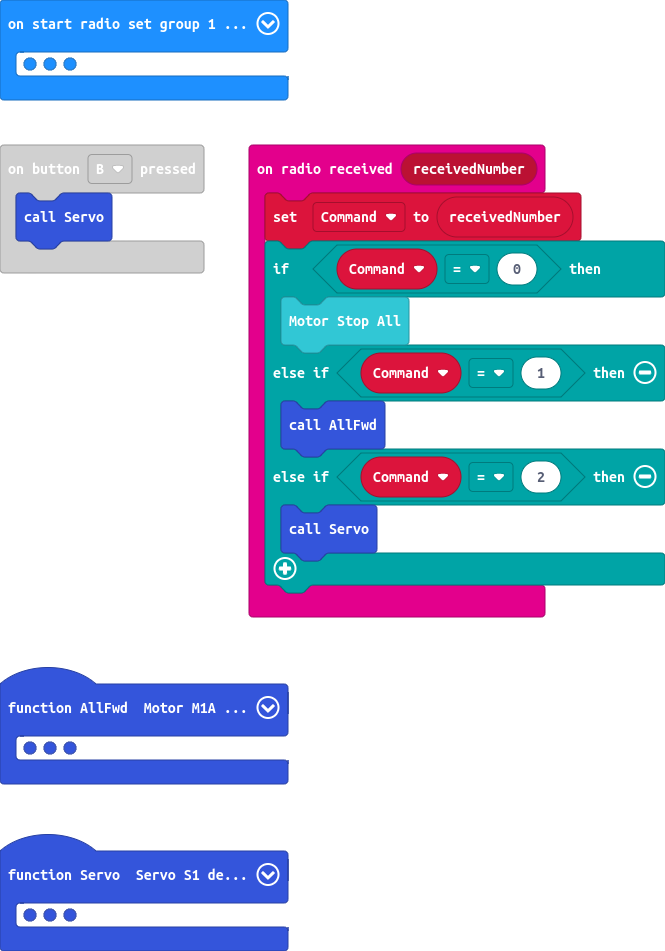
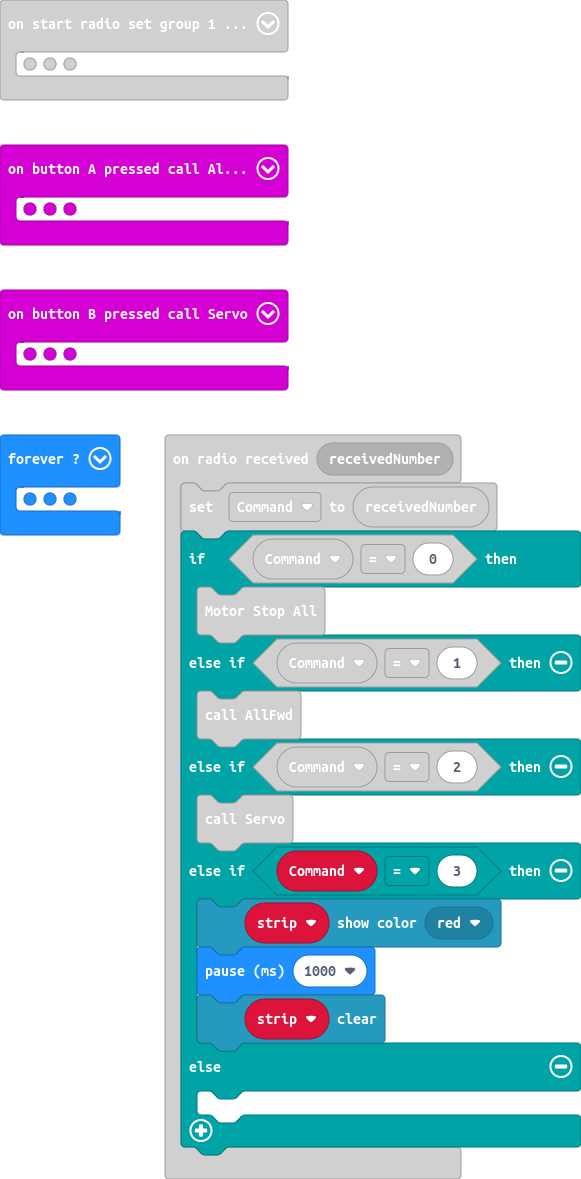
basic works added neo as option3

diff --git a/main.ts b/main.ts
@@ -6,13 +6,16 @@ radio.onReceivedNumber(function (receivedNumber) {
         AllFwd()
     } else if (Command == 2) {
         Servo()
+    } else if (Command == 3) {
+        strip.showColor(neopixel.colors(NeoPixelColors.Red))
+        basic.pause(1000)
+        strip.clear()
+    } else {
+    	
     }
 })
 input.onButtonPressed(Button.A, function () {
     AllFwd()
-})
-input.onButtonPressed(Button.B, function () {
-    Servo()
 })
 function AllFwd () {
     robotbit.MotorRun(robotbit.Motors.M1A, 100)
@@ -27,11 +30,15 @@ function Servo () {
     basic.pause(2000)
     robotbit.Servo(robotbit.Servos.S1, 0)
 }
+input.onButtonPressed(Button.B, function () {
+    Servo()
+})
+let strip: neopixel.Strip = null
 let Command = 0
 radio.setGroup(1)
 Command = 0
-basic.showIcon(IconNames.Yes)
-let strip = neopixel.create(DigitalPin.P16, 4, NeoPixelMode.RGB)
+basic.showIcon(IconNames.Happy)
+strip = neopixel.create(DigitalPin.P16, 4, NeoPixelMode.RGB)
 strip.setBrightness(8)
 strip.showColor(neopixel.colors(NeoPixelColors.Green))
 robotbit.MotorStopAll()
